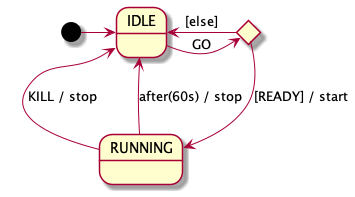
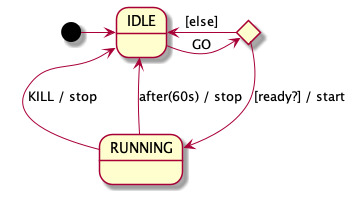
Update documentation to document how to find parsing errors and problems with concurrent regions.

diff --git a/README.md b/README.md
@@ -62,11 +62,19 @@ Here is file `firstExample.puml`
 @enduml
 ```
 
-Running Cogent with command line
+### Running Cogent with command line
 
+You can run cogent using either the `scala` command or the `java` command: either
+
+```shell
+   scala cogent.jar firstExample
 ```
-   scala cogent-assembly-1.0.jar firstExample
-```
+
+or
+
+```shell
+   java -cp cogent.jar cogent.Main firstExample
+`````
 generates file `firstExample.c` that looks like this:
 
 ```C
@@ -87,6 +95,40 @@ bool_t dispatchEvent_firstExample( event_t *event_p, TIME_T now ) {
 The first ellipsis represents some declarations that are used locally within the file.
 
 As events happen, they should be fed into the generated controller and it will react by changing its own state and executing actions.  The result of the controller is `true` if the event was handled and `false` if the event was ignored. In our example, `kill` events are ignored when the state is `IDLE` and `go` events are ignored when the state is `READY`.
+
+### Making images and finding parsing error messages with cogent.jar
+
+Because cogent.jar contains the PlantUML program, as well as cogent, you use it to make PNG images like this
+
+```shell
+    java -cp cogent.jar net.sourceforge.plantuml.Run firstExample.puml
+```
+
+I strongly recommend doing this first because PlantUML gives better error messages than cogent for any parsing errors.
+
+If there are any parsing errors there should be a short message
+at the command line, but a detailed error message,
+will show up in the PNG file(s).
+
+Better yet, while editing any PUML files, I just leave PlantUML working in the background.  You can do that with this bash command.
+
+```shell
+    java -cp cogent.jar net.sourceforge.plantuml.Run &
+```
+
+That should create a GUI window like this
+
+![PlantUML window](diagrams/PlantUML-window.jpg)
+
+Use the "Change Directory" button to change the directory being watched to the one that contains your PUML file.
+Then you can edit your PUML file and the PNG file(s) will be updated automatically whenever the PUML file is saved.
+Again, any parsing errors will be reported in the PNG file(s),
+which will can also be viewed using PlantUML's graphical UI.
+
+
+
+Then ensure that the directory that contains your PUML file is the one that PlantUML is watching.
+
 
 ## Prerequisites
 
@@ -247,7 +289,6 @@ then the following code could be executed periodically
     }
 ```
 
-
 ## Details
 
 ### States and pseudostates
@@ -338,6 +379,87 @@ Composite states may have multiple regions; this allows for a form of concurrenc
 ```
 
 Cogent will make up names for the regions, like `A_region_0` and `A_region_1`. Currently these might be in any order and the order might vary from run to run of the program.
+
+#### Restrictions on Composite states with multiple regions
+
+PlantUML imposes a couple of restrictions on composite states with multiple regions.
+
+##### No transitions into or out of concurrent regions
+
+One is that there can be no transitions into or out of any of the regions.
+
+So this is not allowed
+
+```PlantUML
+@startuml TrueConcurrentStateErrorExample
+    state A
+    state B {
+        state B0
+        --
+        state B1
+    }
+    state C
+    [*] -> A
+    A -> B0
+    B1 -> C
+@enduml
+```
+
+The edge `A -> B0` gives the error message
+
+> The state B0 has been created in a concurrent state : it cannot be used here.
+
+And if that transition were removed, the transition `B1 -> C` gives a similar error message.
+
+The reason is that PlantUML separately renders each region within a composite state, when there is more than one.
+
+##### No transitions from a state in a concurrent region to a substate in a the same region.
+
+This one I don't understand, but at least I have a work around.  Here is an example
+
+```PlantUML
+@startuml FalseConcurrentStateErrorExample
+state FalseConcurrentStateErrorExample {
+    state A
+    [*] -> A
+    --
+    state B0
+    state B1 {
+        state C
+    }
+    C -> B0
+}
+@enduml
+```
+
+The transition from `C --> B0` gives the error:
+
+> The state C has been created in a concurrent state : it cannot be used here.
+
+I think this is a bug in PlantUML.
+
+Here is a workaround. Put all states in the the concurrent region inside of a composite state like this.
+
+```PlantUML
+@startuml FalseConcurrentStateErrorWorkaround
+state FalseConcurrentStateErrorWorkaround {
+    state A
+    [*] -> A
+    --
+    state B {
+        state B0
+        state B1 {
+            state C
+        }
+        C -> B0
+    }
+    [*] --> B
+}
+@enduml
+```
+
+![Workaround]( diagrams/FalseConcurrentStateErrorWorkaround.png )
+
 
 #### How Cogent sees states
 
@@ -775,10 +897,10 @@ Example 0:
 ```
     state A
     state B
-    A -> B : after(0ms) [condition] / action
+    A -> B : after(0ms) [guard] / action
 ```
 
-When A is active, the condition will be tested with every `TICK` event.
+When A is active, the guard will be tested with every `TICK` event.
 
 In Killick-1 this will poll at a rate of once every 10ms. (Currently.)
 
@@ -787,12 +909,12 @@ Example 1:
 ```
     state A
     state B
-    A -> B : after(1s) [condition] / action
+    A -> B : after(1s) [guard] / action
 ```
 
 This might not mean what you think.
-When A has been active for 1s the condition will then be tested.
-If the condition is false at that time, the condition will then be tested with every `TICK` event. So 1s is a minimum wait time, but the after that the transition will be tested frequently.
+When A has been active for 1s the guard will then be tested.
+If the guard is false at that time, the guard will then be tested with every `TICK` event. So 1s is a minimum wait time, but the after that the transition will be tested frequently.
 
 In Killick-1 this will poll at a rate of once every 10ms. (Currently.)
 
@@ -803,13 +925,13 @@ Example 2:
     state B
     state C <<choice>>
     A -> C : after(1s) 
-    C -> B : [condition] / action
+    C -> B : [guard] / action
     C -> A : [else]
 ```
 
-In this case, state A will be re-entered after 1s. This resets the entry time for state A, and so the condition will be tested once per second.
+In this case, state A will be re-entered after 1s. This resets the entry time for state A, and so the guard will be tested once per second.
 
-Thus the condition will be polled once per second.
+Thus the guard will be polled once per second.
 
 Example 3:
 
@@ -818,16 +940,16 @@ Example 3:
     state B
     state C <<choice>>
     A -> C : after(0ms) 
-    C -> B : [condition] / action
+    C -> B : [guard] / action
     C -> A : [else]
 ```
 
-This is a bad idea.  The condition will be tested with every `TICK` event.  
+This is a bad idea.  The guard will be tested with every `TICK` event.  
 The recommended way of setting up driver code will pump in TICK events until there is a TICK event that does not cause a transition.
 So, depending on how the driver code is set up, this may cause an infinite loop in the driver code.
 
 In Killick-1 the driver code (currently) pumps in a new TICK event 1ms after any handled event and after 100 such tick events it checks the main event queue.
-So this won't create an infinite loop, unless the condition never becomes true, but it will cause polling every 1ms.
+So this won't create an infinite loop, unless the guard never becomes true, but it will cause polling every 1ms.
 Example 0 or example 2 are probably a better approach.
 
 In general, it is a bad idea to have any cycle of edges on which every trigger is `after(0ms)`.
